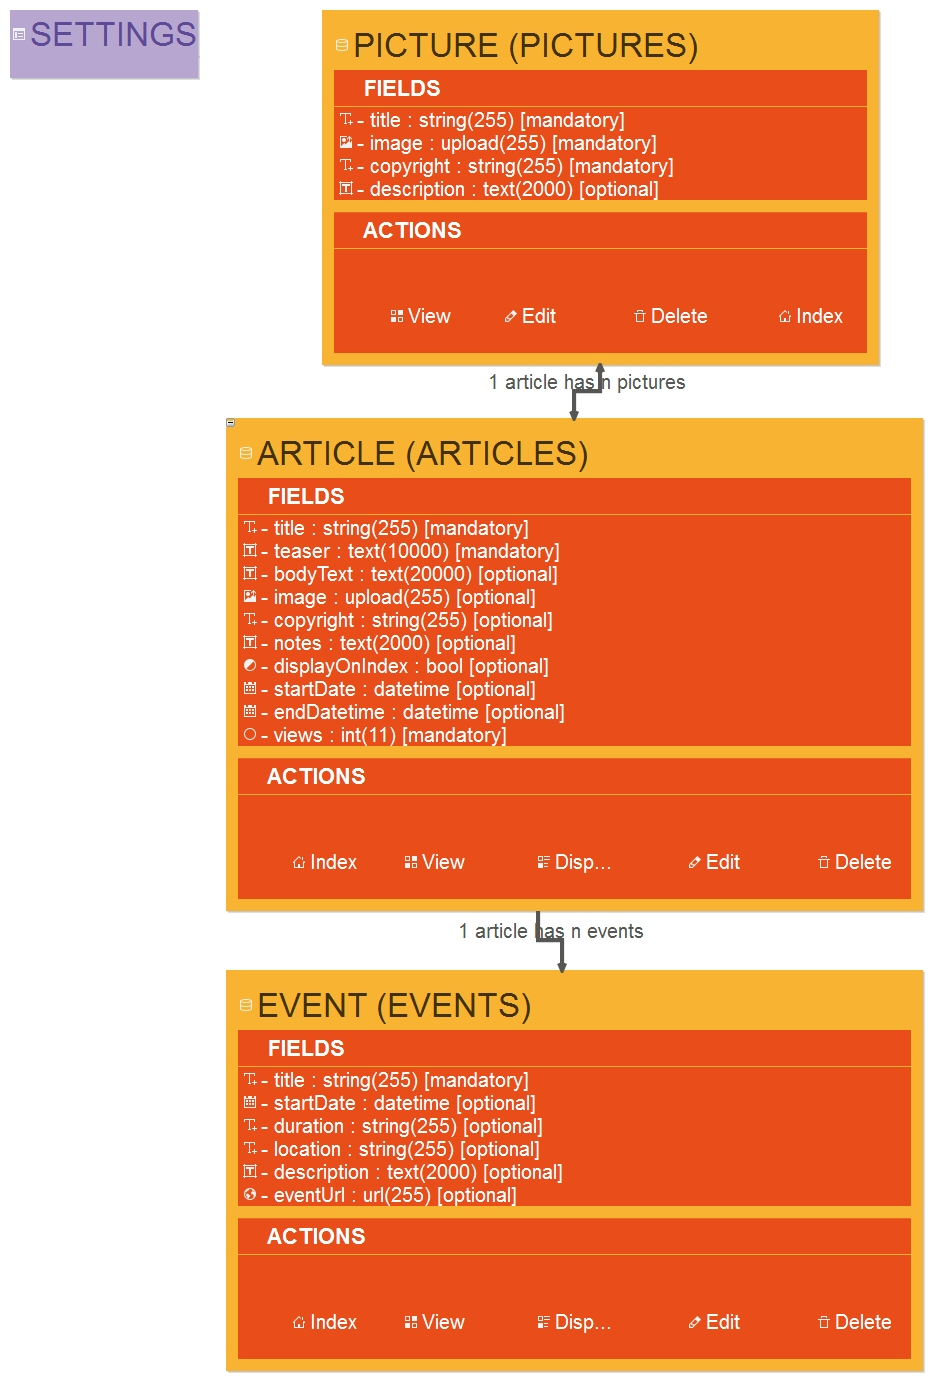
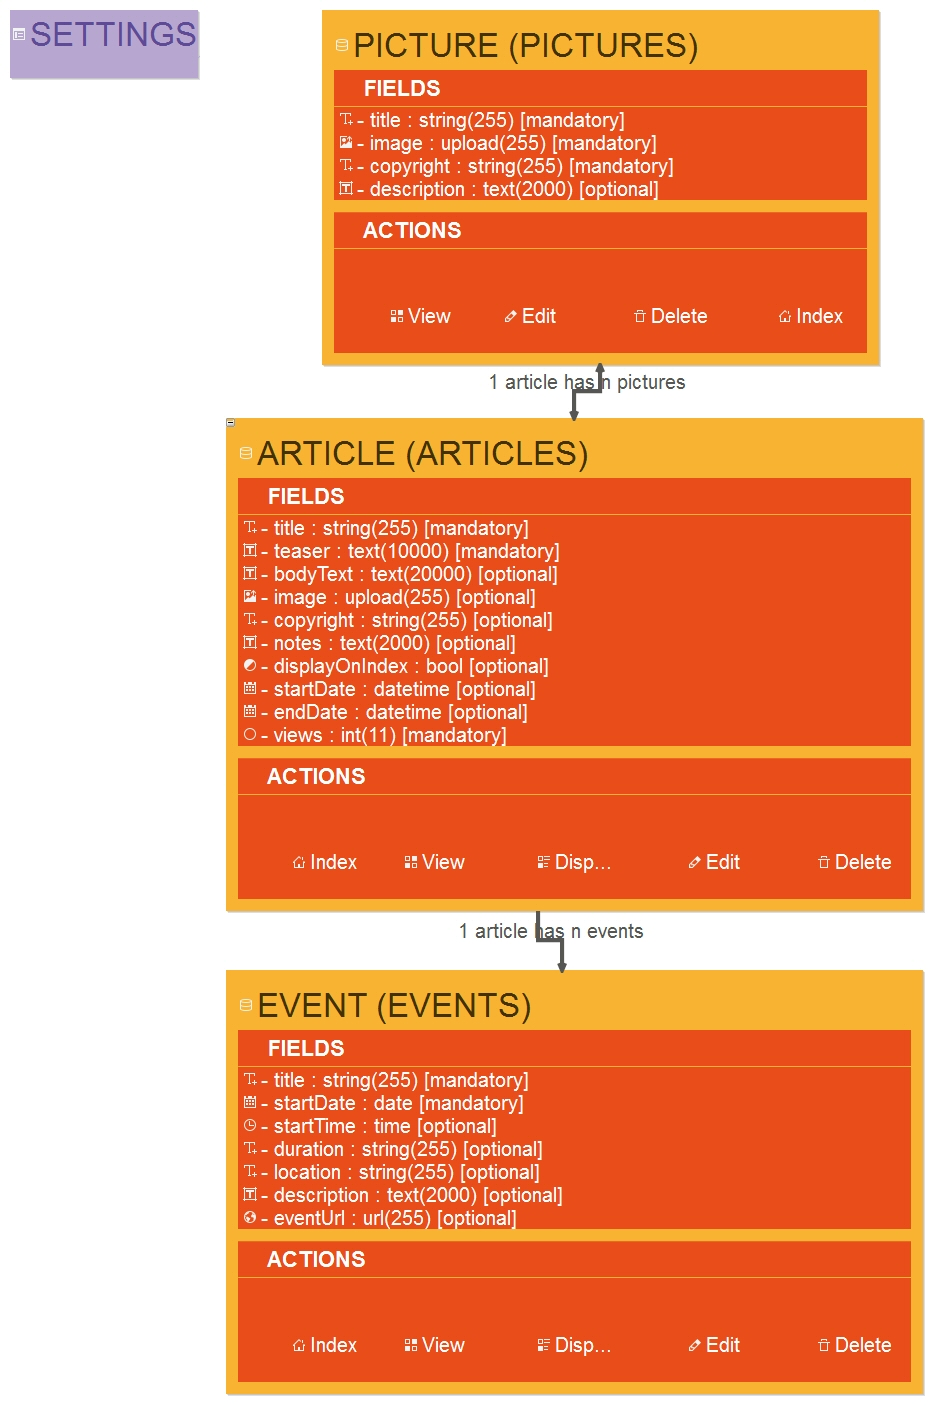
next try of NewsDates

diff --git a/generated modules/NewsDates/Pggo/NewsDatesModule/Resources/public/js/PggoNewsDatesModule.Validation.js b/generated modules/NewsDates/Pggo/NewsDatesModule/Resources/public/js/PggoNewsDatesModule.Validation.js
@@ -85,7 +85,7 @@ function pggoNewsDatesValidateDateRangeArticle(val)
 {
     var cmpVal, cmpVal2, result;
     cmpVal = pggoNewsDatesReadDate(jQuery("[id$='startDate']").val(), true);
-    cmpVal2 = pggoNewsDatesReadDate(jQuery("[id$='endDatetime']").val(), true);
+    cmpVal2 = pggoNewsDatesReadDate(jQuery("[id$='endDate']").val(), true);
 
     if (typeof cmpVal == 'undefined' && typeof cmpVal2 == 'undefined') {
         result = true;

diff --git a/generated modules/NewsDates/Pggo/NewsDatesModule/Entity/Repository/Base/AbstractArticleRepository.php b/generated modules/NewsDates/Pggo/NewsDatesModule/Entity/Repository/Base/AbstractArticleRepository.php
@@ -68,7 +68,7 @@ abstract class AbstractArticleRepository extends EntityRepository
             'title',
             'displayOnIndex',
             'startDate',
-            'endDatetime',
+            'endDate',
             'views',
             'createdBy',
             'createdDate',
@@ -690,8 +690,8 @@ abstract class AbstractArticleRepository extends EntityRepository
         $startDate = null !== $this->getRequest() ? $this->getRequest()->query->get('startDate', date('Y-m-d H:i:s')) : date('Y-m-d H:i:s');
         $qb->andWhere('(tbl.startDate <= :startDate OR tbl.startDate IS NULL)')
            ->setParameter('startDate', $startDate);
-        $endDate = null !== $this->getRequest() ? $this->getRequest()->query->get('endDatetime', date('Y-m-d H:i:s')) : date('Y-m-d H:i:s');
-        $qb->andWhere('(tbl.endDatetime >= :endDate OR tbl.endDatetime IS NULL)')
+        $endDate = null !== $this->getRequest() ? $this->getRequest()->query->get('endDate', date('Y-m-d H:i:s')) : date('Y-m-d H:i:s');
+        $qb->andWhere('(tbl.endDate >= :endDate OR tbl.endDate IS NULL)')
            ->setParameter('endDate', $endDate);
     
         return $qb;
@@ -759,7 +759,7 @@ abstract class AbstractArticleRepository extends EntityRepository
             $where .= ((!empty($where)) ? ' OR ' : '');
             $where .= 'tbl.startDate = \'' . $fragment . '\'';
             $where .= ((!empty($where)) ? ' OR ' : '');
-            $where .= 'tbl.endDatetime = \'' . $fragment . '\'';
+            $where .= 'tbl.endDate = \'' . $fragment . '\'';
         } else {
             $where .= ((!empty($where)) ? ' OR ' : '');
             $where .= 'tbl.workflowState = \'' . $fragment . '\'';
@@ -778,7 +778,7 @@ abstract class AbstractArticleRepository extends EntityRepository
             $where .= ((!empty($where)) ? ' OR ' : '');
             $where .= 'tbl.startDate = \'' . $fragment . '\'';
             $where .= ((!empty($where)) ? ' OR ' : '');
-            $where .= 'tbl.endDatetime = \'' . $fragment . '\'';
+            $where .= 'tbl.endDate = \'' . $fragment . '\'';
             $where .= ((!empty($where)) ? ' OR ' : '');
             $where .= 'tbl.views = \'' . $fragment . '\'';
         }
@@ -962,7 +962,7 @@ abstract class AbstractArticleRepository extends EntityRepository
                 // If no plugin with default = true given the compare plugin is loaded and used for unconfigured fields.
                 // Multiple objects of the same plugin with different configurations are possible.
                 [
-                    new DateFilter(['startDate', 'endDatetime'/*, 'tblJoin.someJoinedField'*/])
+                    new DateFilter(['startDate', 'endDate'/*, 'tblJoin.someJoinedField'*/])
                 ],
     
                 // Allowed operators per field.
@@ -1137,7 +1137,7 @@ abstract class AbstractArticleRepository extends EntityRepository
         $qb->andWhere('tbl.workflowState = :approvedState')
            ->setParameter('approvedState', 'approved');
     
-        $qb->andWhere('tbl.endDatetime < :today')
+        $qb->andWhere('tbl.endDate < :today')
            ->setParameter('today', $today);
     
         $query = $this->getQueryFromBuilder($qb);

diff --git a/generated modules/NewsDates/Pggo/NewsDatesModule/Entity/Base/AbstractEventEntity.php b/generated modules/NewsDates/Pggo/NewsDatesModule/Entity/Base/AbstractEventEntity.php
@@ -83,12 +83,20 @@ abstract class AbstractEventEntity extends EntityAccess
     protected $title = '';
     
     /**
-     * @ORM\Column(type="datetime")
-     * @Assert\NotNull()
-     * @Assert\DateTime()
-     * @var DateTime $startDate
+     * @ORM\Column(type="date")
+     * @Assert\NotBlank()
+     * @Assert\Date()
+     * @var date $startDate
      */
     protected $startDate;
+    
+    /**
+     * @ORM\Column(type="time")
+     * @Assert\NotNull()
+     * @Assert\Time()
+     * @var time $startTime
+     */
+    protected $startTime;
     
     /**
      * @ORM\Column(length=255)
@@ -152,7 +160,8 @@ abstract class AbstractEventEntity extends EntityAccess
      */
     public function __construct()
     {
-        $this->startDate = \DateTime::createFromFormat('Y-m-d H:i:s', date('Y-m-d H:i:s'));
+        $this->startDate = \DateTime::createFromFormat('Y-m-d', date('Y-m-d'));
+        $this->startTime = \DateTime::createFromFormat('H:i:s', date('H:i:s'));
         $this->initWorkflow();
         $this->categories = new ArrayCollection();
     }
@@ -271,7 +280,7 @@ abstract class AbstractEventEntity extends EntityAccess
     /**
      * Returns the start date.
      *
-     * @return DateTime
+     * @return date
      */
     public function getStartDate()
     {
@@ -281,7 +290,7 @@ abstract class AbstractEventEntity extends EntityAccess
     /**
      * Sets the start date.
      *
-     * @param DateTime $startDate
+     * @param date $startDate
      *
      * @return void
      */
@@ -291,6 +300,32 @@ abstract class AbstractEventEntity extends EntityAccess
             $this->startDate = $startDate;
         } else {
             $this->startDate = new \DateTime($startDate);
+        }
+    }
+    
+    /**
+     * Returns the start time.
+     *
+     * @return time
+     */
+    public function getStartTime()
+    {
+        return $this->startTime;
+    }
+    
+    /**
+     * Sets the start time.
+     *
+     * @param time $startTime
+     *
+     * @return void
+     */
+    public function setStartTime($startTime)
+    {
+        if (is_object($startTime) && $startTime instanceOf \DateTime) {
+            $this->startTime = $startTime;
+        } else {
+            $this->startTime = new \DateTime($startTime);
         }
     }
     
@@ -473,7 +508,9 @@ abstract class AbstractEventEntity extends EntityAccess
         $formattedTitle = ''
                 . $this->getTitle()
                 . ' '
-                . \DateUtil::formatDatetime($this->getStartDate(), 'datetimebrief')
+                . \DateUtil::formatDatetime($this->getStartDate(), 'datebrief')
+                . ' '
+                . \DateUtil::formatDatetime($this->getStartTime(), 'timebrief')
                 . ' '
                 . $this->getLocation();
     
@@ -500,6 +537,7 @@ abstract class AbstractEventEntity extends EntityAccess
     
         return $allowedValues;
     }
+    
     
     
     /**

diff --git a/generated modules/NewsDates/Pggo/NewsDatesModule/Entity/Base/AbstractArticleEntity.php b/generated modules/NewsDates/Pggo/NewsDatesModule/Entity/Base/AbstractArticleEntity.php
@@ -166,9 +166,9 @@ abstract class AbstractArticleEntity extends EntityAccess
      * @ORM\Column(type="datetime")
      * @Assert\NotNull()
      * @Assert\DateTime()
-     * @var DateTime $endDatetime
+     * @var DateTime $endDate
      */
-    protected $endDatetime;
+    protected $endDate;
     
     /**
      * @ORM\Column(type="integer")
@@ -229,7 +229,7 @@ abstract class AbstractArticleEntity extends EntityAccess
     {
         $this->views = 1;
         $this->startDate = \DateTime::createFromFormat('Y-m-d H:i:s', date('Y-m-d H:i:s'));
-        $this->endDatetime = \DateTime::createFromFormat('Y-m-d H:i:s', '2099-12-31 00:00:00');
+        $this->endDate = \DateTime::createFromFormat('Y-m-d H:i:s', '2099-12-31 00:00:00');
         $this->initWorkflow();
         $this->pictures = new ArrayCollection();
         $this->events = new ArrayCollection();
@@ -552,28 +552,28 @@ abstract class AbstractArticleEntity extends EntityAccess
     }
     
     /**
-     * Returns the end datetime.
+     * Returns the end date.
      *
      * @return DateTime
      */
-    public function getEndDatetime()
+    public function getEndDate()
     {
-        return $this->endDatetime;
+        return $this->endDate;
     }
     
     /**
-     * Sets the end datetime.
+     * Sets the end date.
      *
-     * @param DateTime $endDatetime
+     * @param DateTime $endDate
      *
      * @return void
      */
-    public function setEndDatetime($endDatetime)
+    public function setEndDate($endDate)
     {
-        if (is_object($endDatetime) && $endDatetime instanceOf \DateTime) {
-            $this->endDatetime = $endDatetime;
+        if (is_object($endDate) && $endDate instanceOf \DateTime) {
+            $this->endDate = $endDate;
         } else {
-            $this->endDatetime = new \DateTime($endDatetime);
+            $this->endDate = new \DateTime($endDate);
         }
     }
     
@@ -813,16 +813,16 @@ abstract class AbstractArticleEntity extends EntityAccess
     }
     
     /**
-     * Checks whether the startDate value is earlier than the endDatetime value.
+     * Checks whether the startDate value is earlier than the endDate value.
      * This method is used for validation.
      *
      * @Assert\IsTrue(message="The start date must be before the end date.")
      *
      * @return boolean True if data is valid else false
      */
-    public function isStartDateBeforeEndDatetime()
+    public function isStartDateBeforeEndDate()
     {
-        return ($this['startDate'] < $this['endDatetime']);
+        return ($this['startDate'] < $this['endDate']);
     }
     
     

diff --git a/generated modules/NewsDates/Pggo/NewsDatesModule/Entity/Repository/Base/AbstractEventRepository.php b/generated modules/NewsDates/Pggo/NewsDatesModule/Entity/Repository/Base/AbstractEventRepository.php
@@ -61,6 +61,7 @@ abstract class AbstractEventRepository extends EntityRepository
         return [
             'title',
             'startDate',
+            'startTime',
             'location',
             'eventUrl',
             'createdBy',
@@ -707,6 +708,8 @@ abstract class AbstractEventRepository extends EntityRepository
             $where .= ((!empty($where)) ? ' OR ' : '');
             $where .= 'tbl.startDate = \'' . $fragment . '\'';
             $where .= ((!empty($where)) ? ' OR ' : '');
+            $where .= 'tbl.startTime = \'' . $fragment . '\'';
+            $where .= ((!empty($where)) ? ' OR ' : '');
             $where .= 'tbl.duration LIKE \'%' . $fragment . '%\'';
             $where .= ((!empty($where)) ? ' OR ' : '');
             $where .= 'tbl.location LIKE \'%' . $fragment . '%\'';
@@ -719,6 +722,8 @@ abstract class AbstractEventRepository extends EntityRepository
             $where .= 'tbl.title LIKE \'%' . $fragment . '%\'';
             $where .= ((!empty($where)) ? ' OR ' : '');
             $where .= 'tbl.startDate = \'' . $fragment . '\'';
+            $where .= ((!empty($where)) ? ' OR ' : '');
+            $where .= 'tbl.startTime = \'' . $fragment . '\'';
             $where .= ((!empty($where)) ? ' OR ' : '');
             $where .= 'tbl.duration LIKE \'%' . $fragment . '%\'';
             $where .= ((!empty($where)) ? ' OR ' : '');
@@ -866,6 +871,9 @@ abstract class AbstractEventRepository extends EntityRepository
             $selection .= ', tbl.startDate';
             
             
+            $selection .= ', tbl.startTime';
+            
+            
             $selection .= ', tbl.location';
             $selection .= ', tbl.slug';
             $useJoins = false;
@@ -914,7 +922,7 @@ abstract class AbstractEventRepository extends EntityRepository
                 // If no plugin with default = true given the compare plugin is loaded and used for unconfigured fields.
                 // Multiple objects of the same plugin with different configurations are possible.
                 [
-                    new DateFilter(['startDate'/*, 'tblJoin.someJoinedField'*/])
+                    new DateFilter(['startDate', 'startTime'/*, 'tblJoin.someJoinedField'*/])
                 ],
     
                 // Allowed operators per field.

diff --git a/generated modules/NewsDates/Pggo/NewsDatesModule/Form/Type/Base/AbstractEventType.php b/generated modules/NewsDates/Pggo/NewsDatesModule/Form/Type/Base/AbstractEventType.php
@@ -103,15 +103,27 @@ abstract class AbstractEventType extends AbstractType
             ],'required' => true,
         ]);
         
-        $builder->add('startDate', 'Pggo\NewsDatesModule\Form\Type\Field\DateTimeType', [
+        $builder->add('startDate', 'Symfony\Component\Form\Extension\Core\Type\DateType', [
             'label' => $this->__('Start date') . ':',
             'empty_data' => '',
             'attr' => [
                 'class' => '',
                 'title' => $this->__('Enter the start date of the event')
-            ],'empty_data' => date('Y-m-d H:i'),
-            'required' => false,
+            ],'empty_data' => date('Y-m-d'),
+            'required' => true,
             'widget' => 'single_text'
+        ]);
+        
+        $builder->add('startTime', 'Symfony\Component\Form\Extension\Core\Type\TimeType', [
+            'label' => $this->__('Start time') . ':',
+            'empty_data' => '',
+            'attr' => [
+                'class' => '',
+                'title' => $this->__('Enter the start time of the event')
+            ],'empty_data' => '',
+            'required' => false,
+            'widget' => 'single_text',
+            'maxlength' => 8
         ]);
         
         $builder->add('duration', 'Symfony\Component\Form\Extension\Core\Type\TextType', [

diff --git a/generated modules/NewsDates/Pggo/NewsDatesModule/Form/Type/Base/AbstractArticleType.php b/generated modules/NewsDates/Pggo/NewsDatesModule/Form/Type/Base/AbstractArticleType.php
@@ -204,12 +204,12 @@ abstract class AbstractArticleType extends AbstractType
             'widget' => 'single_text'
         ]);
         
-        $builder->add('endDatetime', 'Pggo\NewsDatesModule\Form\Type\Field\DateTimeType', [
-            'label' => $this->__('End datetime') . ':',
+        $builder->add('endDate', 'Pggo\NewsDatesModule\Form\Type\Field\DateTimeType', [
+            'label' => $this->__('End date') . ':',
             'empty_data' => '2099-12-31 00:00:00',
             'attr' => [
                 'class' => ' validate-daterange-article',
-                'title' => $this->__('Enter the end datetime of the article')
+                'title' => $this->__('Enter the end date of the article')
             ],'empty_data' => '2099-12-31 00:00:00',
             'required' => false,
             'widget' => 'single_text'
@@ -394,7 +394,7 @@ abstract class AbstractArticleType extends AbstractType
                 },
                 'error_mapping' => [
                     'image' => 'image.image',
-                    'isStartDateBeforeEndDatetime' => 'startDate',
+                    'isStartDateBeforeEndDate' => 'startDate',
                 ],
                 'mode' => 'create',
                 'isModerator' => false,

diff --git a/generated modules/NewsDates/Pggo/NewsDatesModule/Form/Type/QuickNavigation/Base/AbstractArticleQuickNavType.php b/generated modules/NewsDates/Pggo/NewsDatesModule/Form/Type/QuickNavigation/Base/AbstractArticleQuickNavType.php
@@ -182,7 +182,7 @@ abstract class AbstractArticleQuickNavType extends AbstractType
                     $this->__('Title') => 'title',
                     $this->__('Display on index') => 'displayOnIndex',
                     $this->__('Start date') => 'startDate',
-                    $this->__('End datetime') => 'endDatetime',
+                    $this->__('End date') => 'endDate',
                     $this->__('Views') => 'views',
                     $this->__('Creation date') => 'createdDate',
                     $this->__('Creator') => 'createdBy',

diff --git a/generated modules/NewsDates/Pggo/NewsDatesModule/Form/Type/Finder/Base/AbstractArticleFinderType.php b/generated modules/NewsDates/Pggo/NewsDatesModule/Form/Type/Finder/Base/AbstractArticleFinderType.php
@@ -180,7 +180,7 @@ abstract class AbstractArticleFinderType extends AbstractType
                     $this->__('Title') => 'title',
                     $this->__('Display on index') => 'displayOnIndex',
                     $this->__('Start date') => 'startDate',
-                    $this->__('End datetime') => 'endDatetime',
+                    $this->__('End date') => 'endDate',
                     $this->__('Views') => 'views',
                     $this->__('Creation date') => 'createdDate',
                     $this->__('Creator') => 'createdBy',

diff --git a/generated modules/NewsDates/Pggo/NewsDatesModule/Form/Type/QuickNavigation/Base/AbstractEventQuickNavType.php b/generated modules/NewsDates/Pggo/NewsDatesModule/Form/Type/QuickNavigation/Base/AbstractEventQuickNavType.php
@@ -179,6 +179,7 @@ abstract class AbstractEventQuickNavType extends AbstractType
                 'choices' =>             [
                     $this->__('Title') => 'title',
                     $this->__('Start date') => 'startDate',
+                    $this->__('Start time') => 'startTime',
                     $this->__('Location') => 'location',
                     $this->__('Event url') => 'eventUrl',
                     $this->__('Creation date') => 'createdDate',

diff --git a/generated modules/NewsDates/Pggo/NewsDatesModule/Form/Type/Finder/Base/AbstractEventFinderType.php b/generated modules/NewsDates/Pggo/NewsDatesModule/Form/Type/Finder/Base/AbstractEventFinderType.php
@@ -155,6 +155,7 @@ abstract class AbstractEventFinderType extends AbstractType
                 'choices' => [
                     $this->__('Title') => 'title',
                     $this->__('Start date') => 'startDate',
+                    $this->__('Start time') => 'startTime',
                     $this->__('Location') => 'location',
                     $this->__('Event url') => 'eventUrl',
                     $this->__('Creation date') => 'createdDate',

diff --git a/generated modules/NewsDates/Pggo/NewsDatesModule/Controller/Base/AbstractArticleController.php b/generated modules/NewsDates/Pggo/NewsDatesModule/Controller/Base/AbstractArticleController.php
@@ -149,7 +149,7 @@ abstract class AbstractArticleController extends AbstractController
             new Column('title'),
             new Column('displayOnIndex'),
             new Column('startDate'),
-            new Column('endDatetime'),
+            new Column('endDate'),
             new Column('views'),
             new Column('createdBy'),
             new Column('createdDate'),
